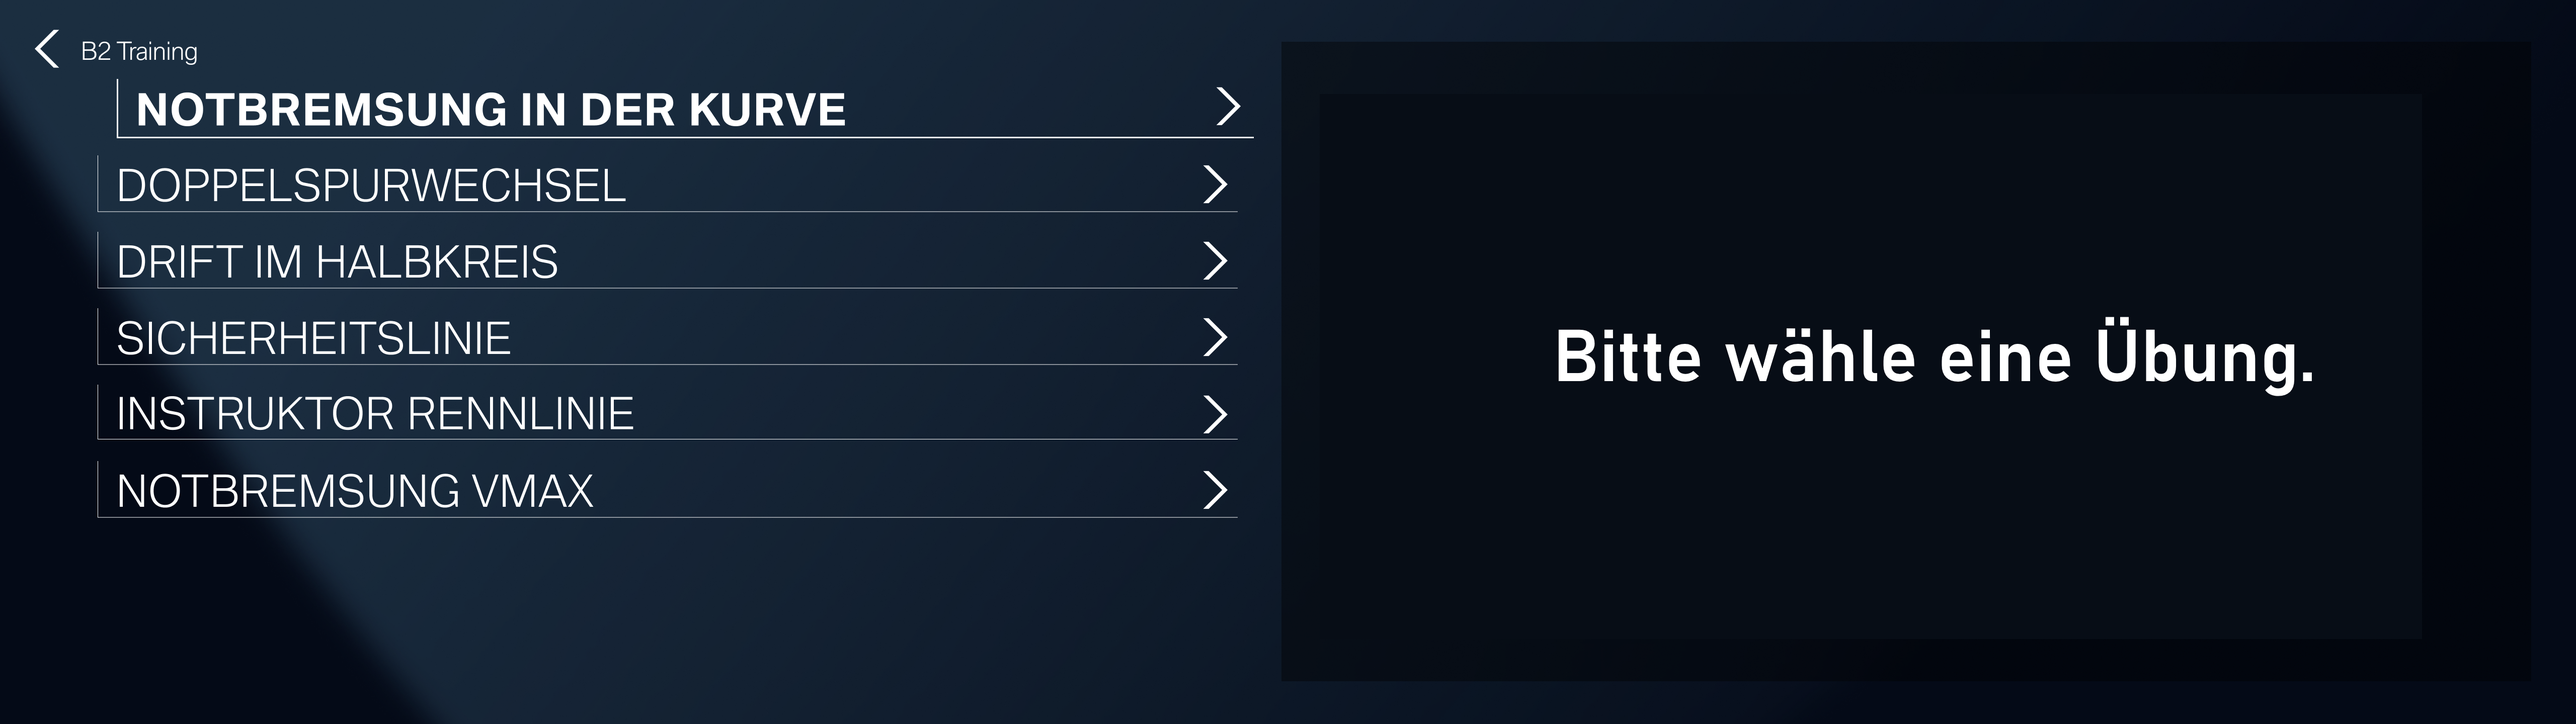
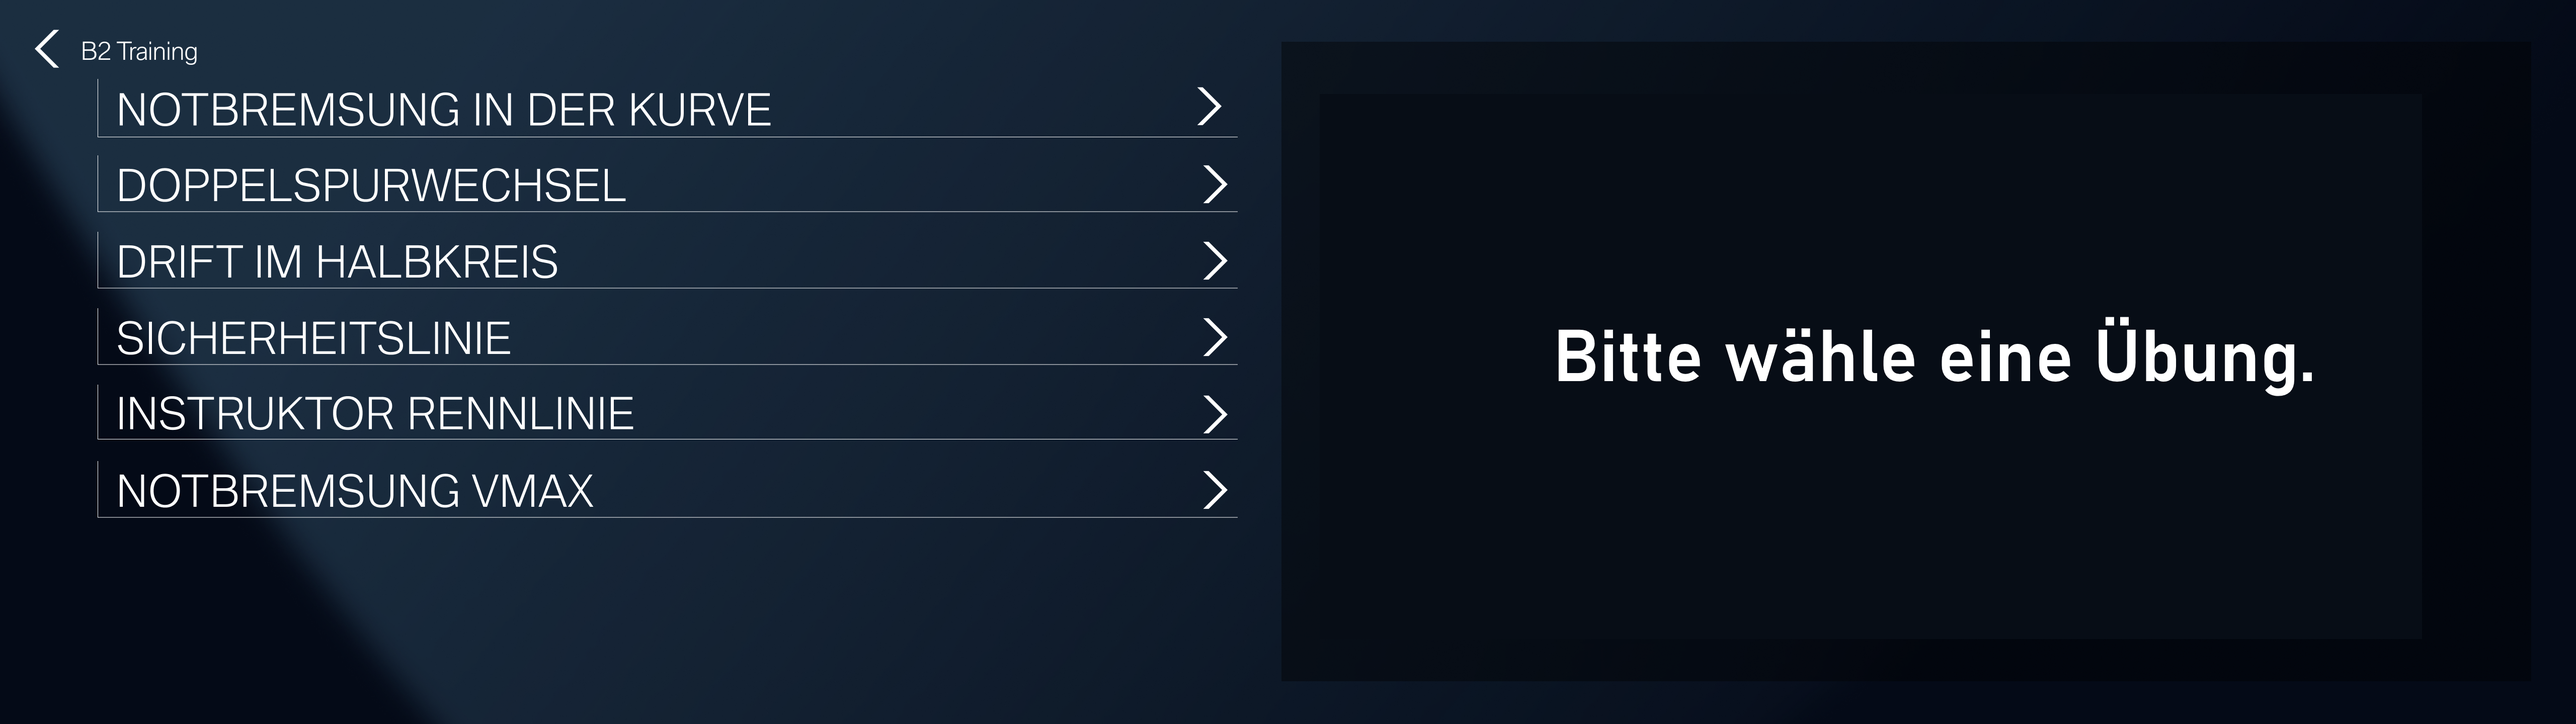
fixes

Changed region(s): [[0.0312, 0.125, 0.3438, 0.1875], [0.4688, 0.125, 0.5, 0.1562]]

diff --git a/lfs_interface.py b/lfs_interface.py
@@ -7,6 +7,8 @@ import config
 from LfsConnector import LFSConnection
 import pyautogui
 
+from pyinsim import func
+
 
 class LFSInterface:
     def __init__(self, os):
@@ -310,7 +312,7 @@ class LFSInterface:
                     connector.crossed_checkpoint1 = False
                     connector.crossed_checkpoint2 = False
                     connector.came_to_standstill = False
-
+                print(self.lfs_connector.full_brake_pedal)
                 if self.lfs_connector.came_to_standstill and not self.lfs_connector.full_brake_pedal:
                     failed = time.perf_counter() if failed is None else failed
                     reason = "Das war keine Vollbremsung."
@@ -869,7 +871,16 @@ class LFSInterface:
                     command = command.encode()
                     self.send_commands_to_lfs([command])
                     ai_strength = setting
-
+                if self.lfs_connector.coordinates_ai and self.lfs_connector.vehicle_model.position_mci:
+                    distance = func.dist(self.lfs_connector.coordinates_ai, self.lfs_connector.vehicle_model.position_mci) / 65536
+                    if distance < 7:
+                        failed = time.perf_counter() if failed is None else failed
+                        reason = "Du bist zu dicht am Instruktor."
+                        self.os.UI.draw_info_button(reason)
+                    elif distance > 100:
+                        failed = time.perf_counter() if failed is None else failed
+                        reason = "Der Instruktor ist zu weit weg."
+                        self.os.UI.draw_info_button(reason)
                 if (connector.laps_done == 4 or
                         (failed is not None and failed < time.perf_counter() - FAILURE_DISPLAY_TIME) or
                         restart or quit):

diff --git a/VehicleModel.py b/VehicleModel.py
@@ -110,7 +110,7 @@ class VehicleModel:
         self.throttle = packet.Throttle
         self.brake = packet.Brake
 
-        if self.connector.braking_possible and self.brake > 0.95 and (self.connector.brake_distance_start == (0,0,0) or self.connector.brake_distance_start == 0) and not self.connector.failed_brake:
+        if self.connector.braking_possible and self.brake > 0.90 and (self.connector.brake_distance_start == (0,0,0) or self.connector.brake_distance_start == 0) and not self.connector.failed_brake:
             self.connector.brake_distance_start = self.connector.vehicle_model.position_mci
             self.connector.full_brake_pedal = True
         else:
@@ -120,7 +120,7 @@ class VehicleModel:
         if self.connector.brake_distance_start != 0 and self.connector.brake_distance_start != (0,0,0):
             distance_since_brake_start = pyinsim.length(pyinsim.dist(self.position_mci,
                                             self.connector.brake_distance_start))
-            if self.brake < 0.9 and distance_since_brake_start > 3 and not self.connector.came_to_standstill and self.speed_mci > 3:
+            if self.brake < 0.8 and distance_since_brake_start > 3 and not self.connector.came_to_standstill and self.speed_mci > 3:
                 self.connector.full_brake_pedal = False
                 self.connector.failed_brake = True
 

diff --git a/LfsConnector.py b/LfsConnector.py
@@ -47,6 +47,7 @@ class LFSConnection:
         self.y_at_stop = -1
         self.failed_brake = False
         self.display_hud = False
+        self.coordinates_ai = 0
 
 
     def outgauge_packet(self, outgauge, packet):
@@ -95,6 +96,8 @@ class LFSConnection:
         for car in mci.Info:
             if car.PLID == self.vehicleID:
                 self.vehicle_model.update_car_data(car)
+            else:
+                self.coordinates_ai = car.X, car.Y, car.Z
 
     def send_message(self, message):
         print(message, "sent")

diff --git a/SimRacingOS.py b/SimRacingOS.py
@@ -6,11 +6,9 @@ from login_screen import login_window
 
 class SimRacingOS:
     def __init__(self):
-        print("NEW")
         self.user_name, self.qnummer = login_window()
         self.user_name = self.user_name.upper()
         self.qnummer = self.qnummer.upper()
-        print(f"Logged in as: {self.user_name, self.qnummer}")
         #self.user_name = "TEST"
         #self.qnummer = "Q123456"
         self.sim_racing_ui = None
